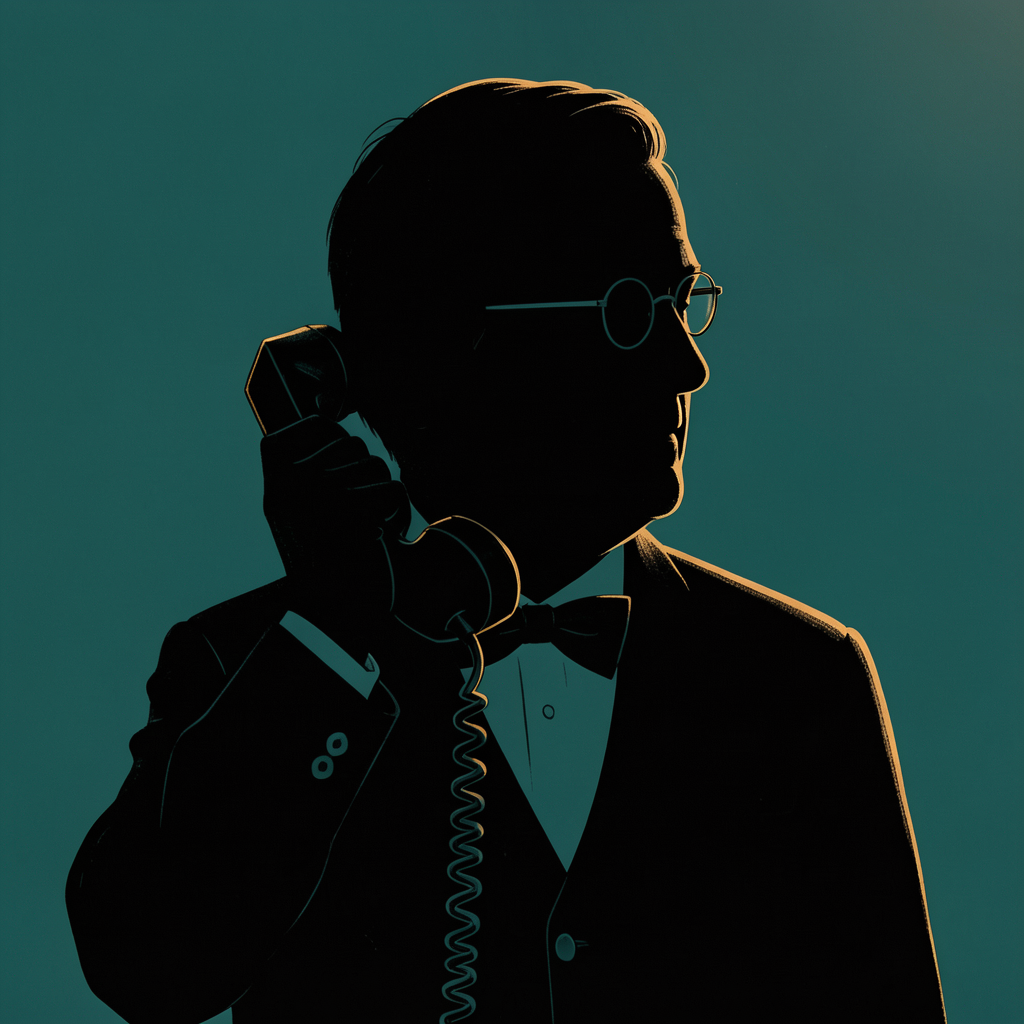
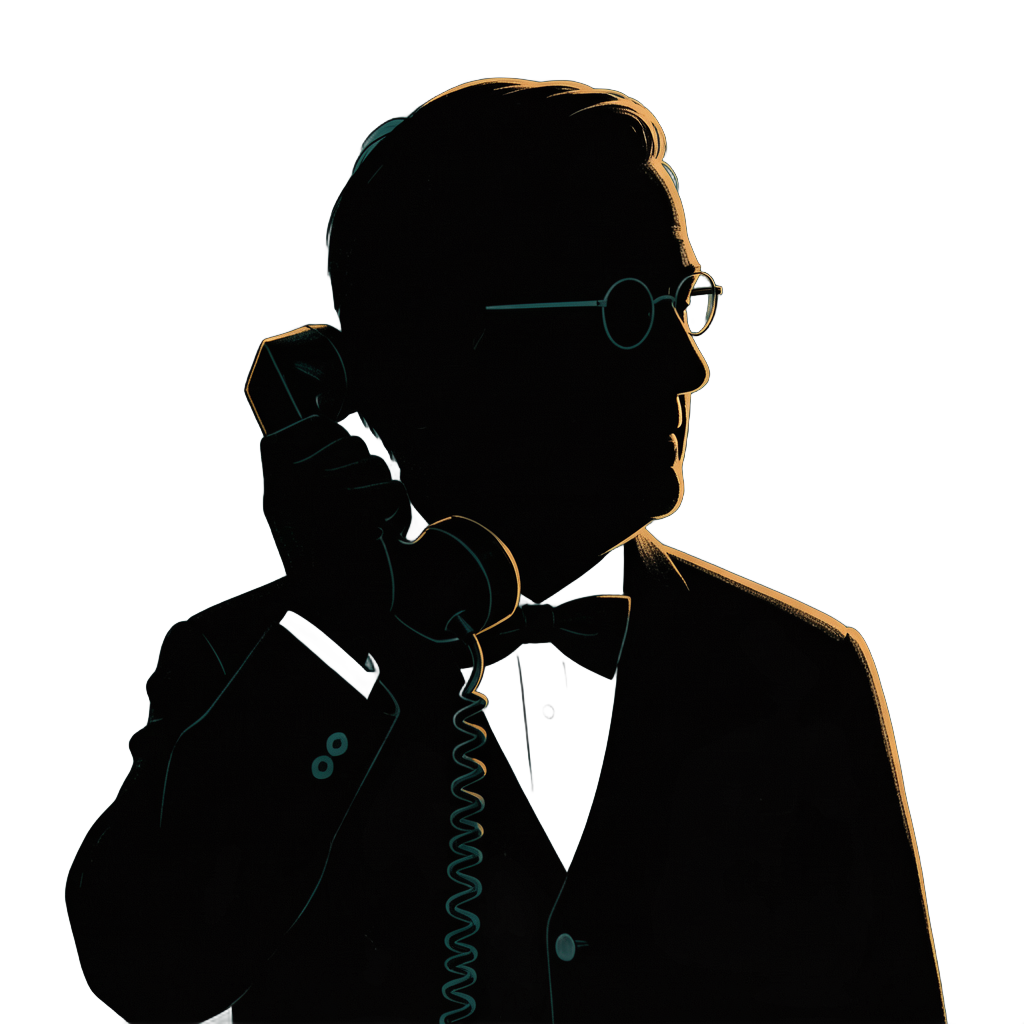
refactor(caller-card): silhouette + film subtitle, drop the panel frame
- Cut all 11 portraits to RGBA via tools/cutout.py so the silhouettes float on the room background instead of sitting in a flat-teal box.
- Rebuild components/caller_card.tscn as a plain Control: portrait on top, name in small caps, dialogue line below as a film-style subtitle with deep-teal outline so it stays legible on any room background. No more PanelContainer / HBox layout.
- caller_card.gd fades in/out over 0.2s on show_line / show_*.
- Reparent CallerCard directly under HUD (no more TopBar/TopRow MarginContainer) — taller card needed its own room.
- Move Cable onto its own CableLayer CanvasLayer (layer = 2) so the dragged line + jack render above the switchboard panel instead of behind it.

diff --git a/ATTRIBUTIONS.md b/ATTRIBUTIONS.md
@@ -4,35 +4,56 @@ Per jam rules: every asset I didn't make myself is listed here.
 
 ## Art
 
+All art in `art/` was generated locally by me using **mflux 0.17.5** running
+**`black-forest-labs/FLUX.1-schnell`** (FLUX.1 [schnell], Apache 2.0). Prompts,
+seeds, and generation parameters are logged per-image in the sidecar
+`*.metadata.json` files next to each PNG, and summarised in
+[`docs/AI_PROMPTS.md`](docs/AI_PROMPTS.md).
+
 | File | Source | License | Notes |
 |------|--------|---------|-------|
-| _e.g._ `art/portraits/daniel.png` | Stable Diffusion (model X, prompt Y, seed Z) | AI-generated | |
+| `art/title.png`, `art/title_logo.png` | mflux + FLUX.1-schnell | Apache 2.0 (model) / self-authored prompt | Title screen |
+| `art/backgrounds/switchboard.png` | mflux + FLUX.1-schnell | Apache 2.0 (model) / self-authored prompt | Seed 101, see metadata |
+| `art/backgrounds/room.png` | mflux + FLUX.1-schnell | Apache 2.0 (model) / self-authored prompt | |
+| `art/backgrounds/title.png` | mflux + FLUX.1-schnell | Apache 2.0 (model) / self-authored prompt | |
+| `art/backgrounds/ending_good.png` | mflux + FLUX.1-schnell | Apache 2.0 (model) / self-authored prompt | |
+| `art/backgrounds/ending_bad.png` | mflux + FLUX.1-schnell | Apache 2.0 (model) / self-authored prompt | |
+| `art/portraits/*.png` (cole, daniel, doc, henley, margaret_empty_chair, nurse, patty, reverend, sheriff, trucker, unknown) | mflux + FLUX.1-schnell | Apache 2.0 (model) / self-authored prompt | Character portraits |
+| `art/props/cable_and_shelf.png`, `operator_desk.png`, `switchboard_panel.png`, `switchboard_panel_small.png` | mflux + FLUX.1-schnell | Apache 2.0 (model) / self-authored prompt | Switchboard props |
 
 ## Audio — SFX
 
 | File | Source | License | Notes |
 |------|--------|---------|-------|
-| _e.g._ `audio/sfx/dial_tone.wav` | freesound.org/people/USER/sounds/12345 | CC0 / CC-BY | |
+| `audio/sfx/274289__abernstein__rotary-phone-ring-medium.wav` | https://freesound.org/people/abernstein/sounds/274289/ | CC0 (declared by uploader) | Rotary phone ring. Uploader marks this as CC0, but it is a remix of [lwdickens/269380](https://freesound.org/people/lwdickens/sounds/269380/) which is **CC-BY-NC 4.0**. To be safe, credit lwdickens too. |
+| `audio/sfx/275053__cvp1965__old-phone-ringing (1).wav` | https://freesound.org/people/cvp1965/sounds/275053/ | CC0 | Old phone ringing |
+| `audio/sfx/477641__joao_janz__power-cord-unplug-1_2.wav` | https://freesound.org/people/joao_janz/sounds/477641/ | CC0 | Cable unplug |
+| `audio/sfx/531060__haleyreesecalhoun__sneaky-phone-put-down-hrc.wav` (and `.m4a`) | https://freesound.org/people/haleyreesecalhoun/sounds/531060/ | CC0 | Phone hang-up |
 
 ## Audio — Music
 
 | File | Source | License | Notes |
 |------|--------|---------|-------|
-| _e.g._ `audio/music/night_shift.ogg` | incompetech.com – Kevin MacLeod | CC-BY 4.0 | |
+| `audio/music/197795__yuval__soundtrack-noise-1940s.wav` | https://freesound.org/people/Yuval/sounds/197795/ | CC0 | 1940s soundtrack noise bed |
+| `audio/music/693423__gis_sweden__waiting-for-mellow-cinematic-loop.wav` | https://freesound.org/people/gis_sweden/sounds/693423/ | CC0 | Mellow cinematic loop |
+| `audio/music/839571__cvltiv8r__contemplative-string-loop-violin-and-cello.wav` | https://freesound.org/people/cvltiv8r/sounds/839571/ | CC0 | Contemplative strings loop |
 
 ## Fonts
 
-| File | Source | License |
-|------|--------|---------|
-| _e.g._ `fonts/SpecialElite.ttf` | Google Fonts | OFL |
+None — uses Godot's built-in default font; no external font files in the project.
 
 ## Shaders
 
+All shaders in `shaders/` were written by me from scratch for this jam.
+
 | File | Source | License |
 |------|--------|---------|
-| _e.g._ `shaders/crt.gdshader` | godotshaders.com/shader/... | MIT / CC0 |
+| `shaders/jack.gdshader` | Self-authored | Same as project |
+| `shaders/patience_light.gdshader` | Self-authored | Same as project |
+| `shaders/socket.gdshader` | Self-authored | Same as project |
 
 ## Tools used (disclosure)
 
-- Godot 4.6
-- (AI tool name + version) — used for portrait generation, prompts logged in `docs/AI_PROMPTS.md`
+- **Godot 4.6** — engine
+- **mflux 0.17.5** running **FLUX.1-schnell** (Apache 2.0) — local image generation for all art assets; per-image prompts/seeds in `*.metadata.json` and `docs/AI_PROMPTS.md`
+- **Devin (CLI)** — coding assistant used during development
